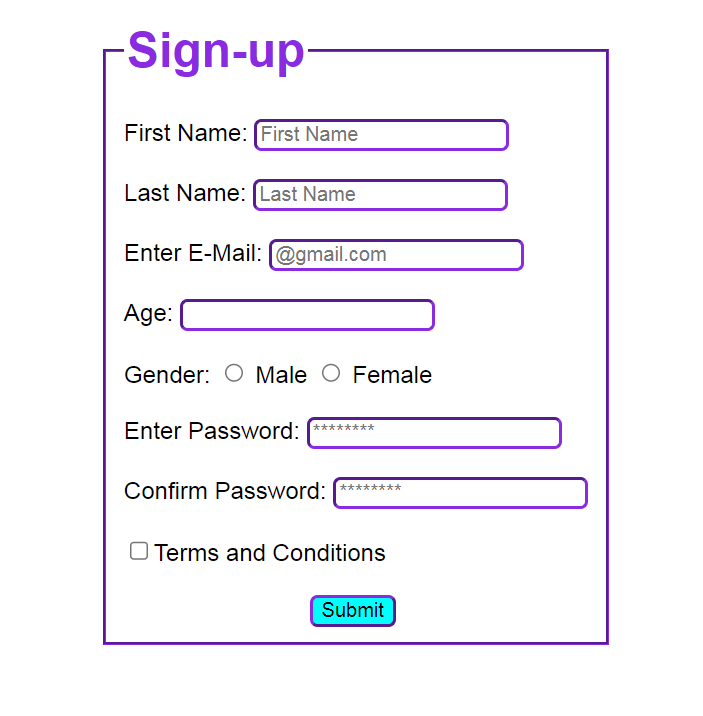
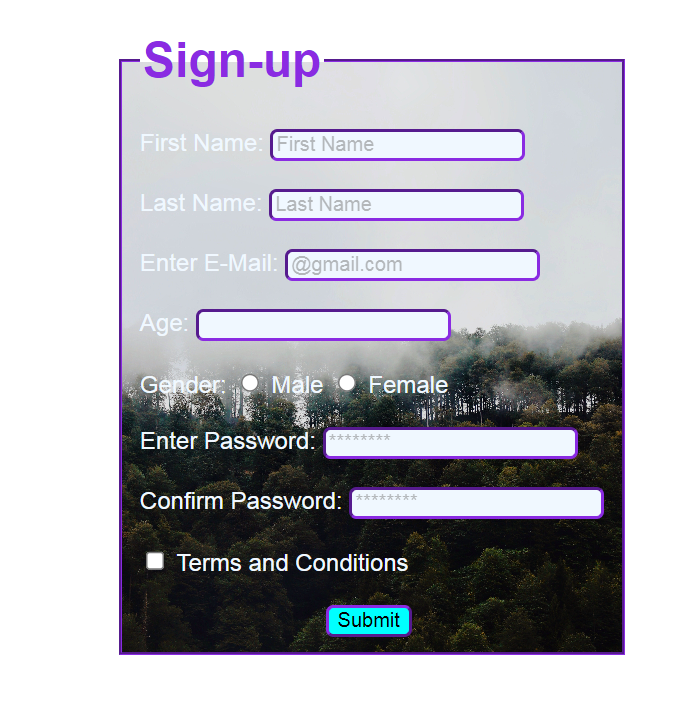
Add files via upload

diff --git a/q3.html b/q3.html
@@ -10,11 +10,11 @@
 </head>
 
 <body>
-    <div>
+    <div >
 
-
+        
         <form action="./backend.php">
-            <fieldset>
+            <fieldset class="bg_img">
                 <legend >
                     <h1 class="heading">Sign-up</h1>
                 </legend>
@@ -42,7 +42,8 @@
                 <label for="confirmPassword">Confirm Password:</label>
                 <input type="password" name="password" id="password" placeholder="********" maxlength="8">
                 <br><br>
-                <input type="checkbox" name="t&c" id="t&c" value="t&c">Terms and Conditions
+                <input type="checkbox" name="t&c" id="t&c" value="t&c">
+                <label for="t&c">Terms and Conditions</label>
                 <br><br>
                 <input type="submit" name="submit" id="submit">
                 <br>

diff --git a/q3.css b/q3.css
@@ -7,8 +7,15 @@ div {
   width: fit-content;
   padding: 10px;
   margin-left: 30%;
+ 
 }
-
+.bg_img{
+    background-image: url(8.jpg);
+    background-position: center;
+    background-repeat: no-repeat;
+    background-size: cover;
+    position: relative;
+}
 
 
 
@@ -18,6 +25,7 @@ div {
 
 fieldset {
   border-color: blueviolet;
+  
 }
 
 #submit {
@@ -29,9 +37,13 @@ fieldset {
 input{
     border-color: blueviolet;
     border-radius: 5px;
+    background-color: aliceblue;
     
 }
+::placeholder{
+    opacity: 50%;
+}
 label{
-   
+   color: aliceblue;
     display: inline-block;
 }
